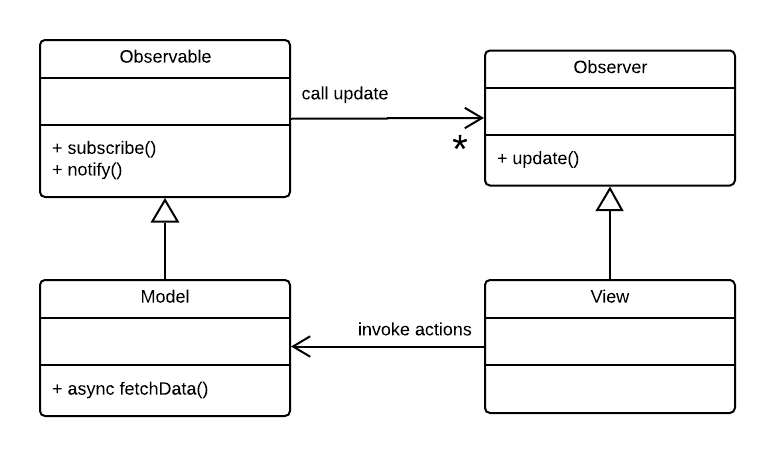
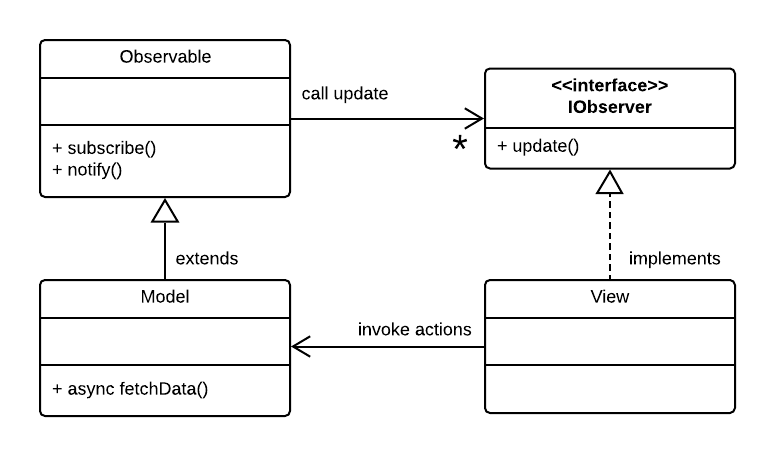
Replace Observer class by IObserver interface

diff --git a/src/week3/7-oop/nobel-prize-prototype/PageView.js b/src/week3/7-oop/nobel-prize-prototype/PageView.js
@@ -1,19 +1,14 @@
 'use strict';
 
 {
-  const { Observer } = window;
-
   function PageView(model) {
-    Observer.call(this, model);
+    model.subscribe(this);
     this.model = model;
     this.header = null;
     this.select = null;
     this.mainContainer = null;
     this.initialize();
   }
-
-  PageView.prototype = Object.create(Observer.prototype);
-  PageView.prototype.constructor = PageView;
 
   PageView.prototype.initialize = function() {
     const root = document.getElementById('root');

diff --git a/src/week3/7-oop/nobel-prize-prototype/SpeechView.js b/src/week3/7-oop/nobel-prize-prototype/SpeechView.js
@@ -1,18 +1,13 @@
 'use strict';
 
 {
-  const { Observer } = window;
-
   function SpeechView(model, lang) {
-    Observer.call(this, model);
+    model.subscribe(this);
     this.count = 0;
     this.lang = lang;
     this.utterance = null;
     this.voices = null;
   }
-
-  SpeechView.prototype = Object.create(Observer.prototype);
-  SpeechView.prototype.constructor = SpeechView;
 
   SpeechView.prototype.update = async function(state) {
     const { error, selectedCountry, laureates } = state;

diff --git a/src/week3/7-oop/nobel-prize-prototype/ConsoleView.js b/src/week3/7-oop/nobel-prize-prototype/ConsoleView.js
@@ -3,14 +3,9 @@
 'use strict';
 
 {
-  const { Observer } = window;
-
   function ConsoleView(model) {
-    Observer.call(this, model);
+    model.subscribe(this);
   }
-
-  ConsoleView.prototype = Object.create(Observer.prototype);
-  ConsoleView.prototype.constructor = ConsoleView;
 
   ConsoleView.prototype.update = function(state) {
     console.log(state);

diff --git a/src/week3/7-oop/nobel-prize-classes/SpeechView.js b/src/week3/7-oop/nobel-prize-classes/SpeechView.js
@@ -1,11 +1,9 @@
 'use strict';
 
 {
-  const { Observer } = window;
-
-  class SpeechView extends Observer {
+  class SpeechView {
     constructor(model, lang) {
-      super(model);
+      model.subscribe(this);
       this.count = 0;
       this.lang = lang;
       this.utterance = null;

diff --git a/src/week3/7-oop/nobel-prize-classes/PageView.js b/src/week3/7-oop/nobel-prize-classes/PageView.js
@@ -1,11 +1,9 @@
 'use strict';
 
 {
-  const { Observer } = window;
-
-  class PageView extends Observer {
+  class PageView {
     constructor(model) {
-      super(model);
+      model.subscribe(this);
       this.model = model;
       this.header = null;
       this.select = null;

diff --git a/src/week3/7-oop/nobel-prize-classes/index.html b/src/week3/7-oop/nobel-prize-classes/index.html
@@ -15,7 +15,6 @@
   <body>
     <div id="root"></div>
     <script src="Observable.js"></script>
-    <script src="Observer.js"></script>
     <script src="Model.js"></script>
     <script src="PageView.js"></script>
     <script src="ConsoleView.js"></script>

diff --git a/src/week3/7-oop/nobel-prize-prototype/index.html b/src/week3/7-oop/nobel-prize-prototype/index.html
@@ -15,7 +15,6 @@
   <body>
     <div id="root"></div>
     <script src="Observable.js"></script>
-    <script src="Observer.js"></script>
     <script src="Model.js"></script>
     <script src="PageView.js"></script>
     <script src="ConsoleView.js"></script>

diff --git a/src/week3/7-oop/nobel-prize-classes/ConsoleView.js b/src/week3/7-oop/nobel-prize-classes/ConsoleView.js
@@ -3,9 +3,11 @@
 'use strict';
 
 {
-  const { Observer } = window;
+  class ConsoleView {
+    constructor(model) {
+      model.subscribe(this);
+    }
 
-  class ConsoleView extends Observer {
     update(state) {
       console.log(state);
     }

diff --git a/src/week3/7-oop/README.md b/src/week3/7-oop/README.md
@@ -29,22 +29,26 @@ The application is now divided into three component types:
 - The Model is concerned with fetching data and notifying attached Views when data is updated. It is not concerned with rendering the data.
 - The View is concerned with rendering the data as provided by the Model and with responding to DOM events. It not concerned with fetching the data.
 
-Because this pattern of a _source_ component (our Model) needing notifying _client_ component(s) (our View) about updates is so common, this base functionality often implemented in reusable classes, usually called **Observable** and **Observer**. We can use **class inheritance** to let the Model inherit the Observable functionality and, similarly, let the View class inherit the functionality of the Observer class. This is illustrated in Figure 1 below. 
+Because this pattern of a _source_ component (our Model) needing notifying _client_ component(s) (our View) about updates is so common, this base functionality often implemented in a reusable class, usually called **Subject** or **Observable**. We can use **class inheritance** to let the Model inherit the Observable functionality. The View class must implement the interface expected by hhe Observable, in this example it must implement an `update()` method. This is illustrated in Figure 1 below. 
 
 ![model-view](./model-view.png)
 
 Figure 1. A UML Class Diagram illustrating the 'Observer' pattern.<br>
 (Created with **LucidChart**: [YouTube tutorial](https://youtu.be/UI6lqHOVHic) 10 mins.)
 
-In this diagram, an arrow with closed triangle arrowhead signifies an inheritance relationship, whereas a open arrowhead represents a reference. For example, the Model class inherits from the Observable class and the View class inherits from the Observer class. In this particular example, in OOP parlance, the Observable class is said to be the **superclass** of the Model class, and the Model class is a **subclass** of the Observable class. The same can be said for Observer and View classes. In ES6 classes, inheritance is indicated with the `extends` keyword.
+In this diagram, a solid line with closed arrowhead signifies an _inheritance_ relationship, a dashed line with closed arrowhead signifies an _'interface'_ whereas a solid line with an open arrowhead represents a _reference_. For example, the Model class inherits from the Observable class and the View class implements the IObserver interface. In OOP parlance, the Observable class is said to be the **superclass** of the Model class, and the Model class is a **subclass** of the Observable class. Contrary to most other OOP languages, there no construct in JavaScript to describe an interface in code. It is just used as a documentation vehicle.
 
 ```js
 class Model extends Observable {
   ...
 }
 
-class View extends Observer {
+class View {
   ...
+  // Implement the update method
+  update() {
+    //...
+  }
 }
 ```
 
@@ -62,7 +66,6 @@ In this application, we have provided a main View (called **PageView** below) an
 | ConsoleView.js |  A JavaScript class that implements a (passive) View. It simply logs the Model data to the browser console. |
 | SpeechView.js | A JavaScript class that implements a (passive) View, rendering a summary of the Model data as spoken text. |
 | Observable.js | A JavaScript class that implements the Observable component of the [Observer pattern](https://en.wikipedia.org/wiki/Observer_pattern). |
-| Observer.js | A JavaScript class that implements the Observer component of the Observer pattern. |
 
 ### Example Folders
 
